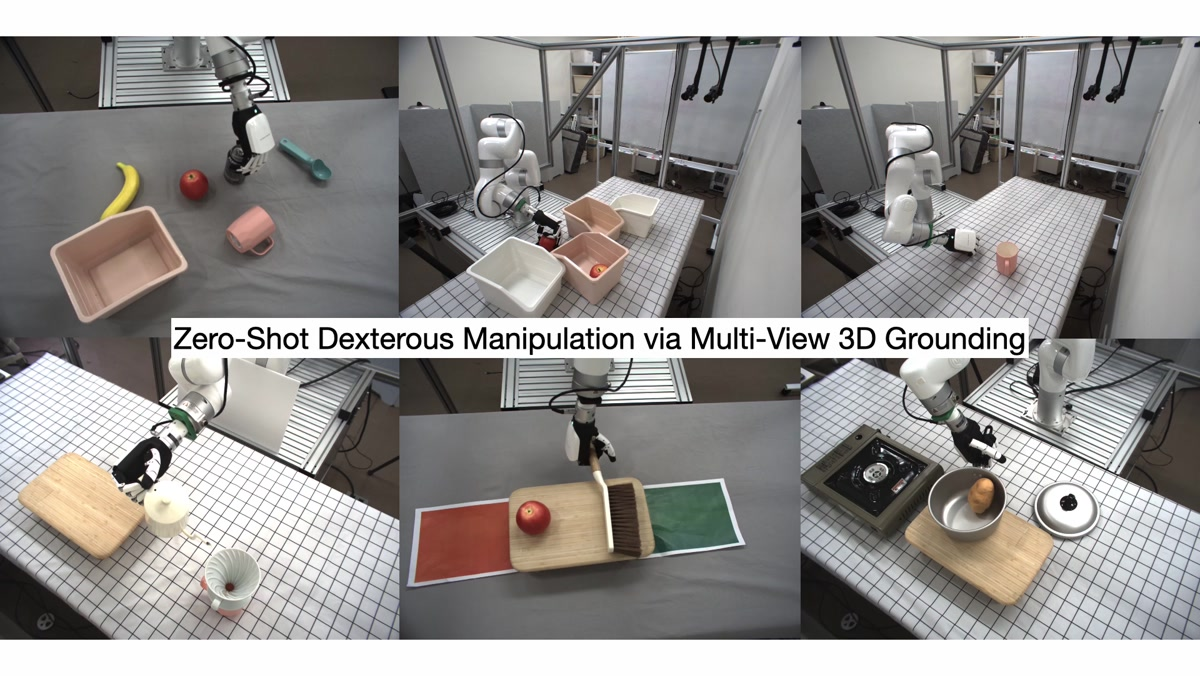
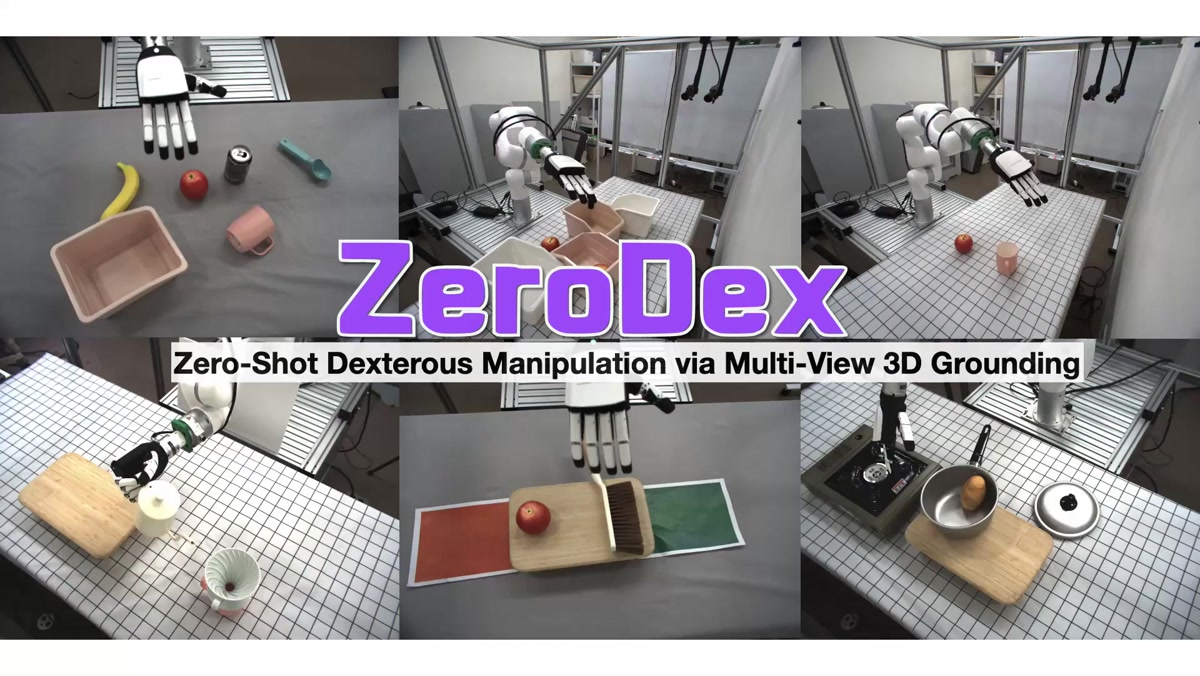
change teaser

diff --git a/index.html b/index.html
@@ -39,8 +39,8 @@
   <meta property="og:image:alt"
     content="Zero-Shot Long-Horizon Dexterous Manipulation via Multi-View 3D-Grounded VLM Reasoning - Research Preview">
   <!-- Animated teaser (plays inline on platforms that support og:video, e.g. Discord/Twitter) -->
-  <meta property="og:video" content="https://jlogkim.github.io/zerodex/static/videos/teaser_ver6_26s_2x.mp4">
-  <meta property="og:video:secure_url" content="https://jlogkim.github.io/zerodex/static/videos/teaser_ver6_26s_2x.mp4">
+  <meta property="og:video" content="https://jlogkim.github.io/zerodex/static/videos/teaser_ver7_30s_2x.mp4">
+  <meta property="og:video:secure_url" content="https://jlogkim.github.io/zerodex/static/videos/teaser_ver7_30s_2x.mp4">
   <meta property="og:video:type" content="video/mp4">
   <meta property="og:video:width" content="1280">
   <meta property="og:video:height" content="720">
@@ -293,7 +293,7 @@
           <!-- TODO: Replace with your teaser video -->
           <video poster="" id="tree" autoplay controls muted loop playsinline height="100%" preload="metadata">
             <!-- TODO: Add your video file path here -->
-            <source src="static/videos/teaser_ver6.mp4" type="video/mp4">
+            <source src="static/videos/teaser_ver7.mp4" type="video/mp4">
           </video>
           <!-- TODO: Replace with your video description -->
           <h2 class="subtitle has-text-centered">